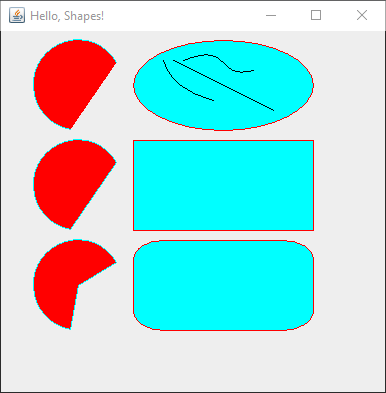
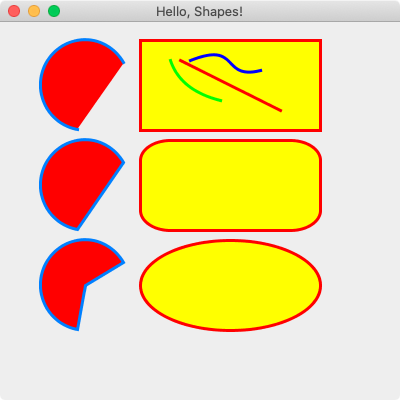
Version 0.0.4 changes: - Support setting `stroke` attribute in shapes - Rename `draw_color` and `fill_color` to `draw_paint` and `fill_paint` to be consistent with `java.awt.Graphics2D` terminology (while keeping older syntax as an alias/alternative) - Enable antialiasing by default on Java 2D graph

diff --git a/samples/hello/hello_shapes.rb b/samples/hello/hello_shapes.rb
@@ -6,44 +6,53 @@ jframe('Hello, Shapes!') {
   minimum_size 400, 400
   
   arc(40, 40, 90, 90, 30, 230, 0) {
-    fill_color r: 255, g: 0, b: 0
-    draw_color r: 0, g: 255, b: 255
+    fill_paint 255, 0, 0
+    draw_paint 0, 128, 255
+    stroke 3
   }
   
   arc(40, 140, 90, 90, 30, 230, 1) {
-    fill_color r: 255, g: 0, b: 0
-    draw_color r: 0, g: 255, b: 255
+    fill_paint 255, 0, 0
+    draw_paint 0, 128, 255
+    stroke 3
   }
   
   arc(40, 240, 90, 90, 30, 230, 2) {
-    fill_color r: 255, g: 0, b: 0
-    draw_color r: 0, g: 255, b: 255
+    fill_paint 255, 0, 0
+    draw_paint 0, 128, 255
+    stroke 3
   }
   
-  ellipse(140, 40, 180, 90) {
-    fill_color r: 0, g: 255, b: 255
-    draw_color r: 255, g: 0, b: 0
+  rectangle(140, 40, 180, 90) {
+    fill_paint 255, 255, 0
+    draw_paint 255, 0, 0
+    stroke 3
   }
   
-  rectangle(140, 140, 180, 90) {
-    fill_color r: 0, g: 255, b: 255
-    draw_color r: 255, g: 0, b: 0
-  }
-  
-  round_rectangle(140, 240, 180, 90, 60, 40) {
-    fill_color r: 0, g: 255, b: 255
-    draw_color r: 255, g: 0, b: 0
+  round_rectangle(140, 140, 180, 90, 60, 40) {
+    fill_paint 255, 255, 0
+    draw_paint 255, 0, 0
+    stroke 3
   }
 
+  ellipse(140, 240, 180, 90) {
+    fill_paint 255, 255, 0
+    draw_paint 255, 0, 0
+    stroke 3
+  }
+  
   line(180, 60, 280, 110) {
-    draw_color r: 0, g: 0, b: 0
+    draw_paint 255, 0, 0
+    stroke 3
   }
   
   quad_curve(170, 60, 180, 90, 220, 100) {
-    draw_color r: 0, g: 0, b: 0
+    draw_paint 0, 255, 0
+    stroke 3
   }
   
   cubic_curve(190, 60, 240, 40, 220, 80, 260, 70) {
-    draw_color r: 0, g: 0, b: 0
+    draw_paint 0, 0, 255
+    stroke 3
   }
 }.show

diff --git a/lib/glimmer/swing/component_proxy.rb b/lib/glimmer/swing/component_proxy.rb
@@ -87,18 +87,23 @@ module Glimmer
                 attr_accessor :shape_proxies
       
                 def paint(g2)
+                  rendering_hints = RenderingHints.new(RenderingHints::KEY_ANTIALIASING, RenderingHints::VALUE_ANTIALIAS_ON)
+                  g2.set_rendering_hints(rendering_hints)
                   super(g2)
                   shape_proxies.each do |shape_proxy|
-                    original_color = g2.get_color
+                    original_paint = g2.get_paint
+                    original_stroke = g2.get_stroke
                     if shape_proxy.fill_color
-                      g2.color = Color.new(shape_proxy.fill_color[:r], shape_proxy.fill_color[:g], shape_proxy.fill_color[:b], shape_proxy.fill_color[:a] || 255)
+                      g2.set_paint shape_proxy.fill_paint
                       g2.fill(shape_proxy)
                     end
                     if shape_proxy.draw_color
-                      g2.color = Color.new(shape_proxy.draw_color[:r], shape_proxy.draw_color[:g], shape_proxy.draw_color[:b], shape_proxy.draw_color[:a] || 255)
+                      g2.set_stroke shape_proxy.stroke unless shape_proxy.stroke.nil?
+                      g2.set_paint shape_proxy.draw_paint
                       g2.draw(shape_proxy)
                     end
-                    g2.color = original_color
+                    g2.set_paint original_paint
+                    g2.set_stroke original_stroke || BasicStroke.new
                   end
                 end
               }

diff --git a/lib/glimmer/swing/shape_proxy.rb b/lib/glimmer/swing/shape_proxy.rb
@@ -99,7 +99,6 @@ module Glimmer
       end
       
       attr_reader :parent_proxy, :original, :args, :keyword, :block
-      attr_accessor :draw_color, :fill_color
       
       def initialize(parent, keyword, *args, &block)
         @parent_proxy = parent
@@ -148,6 +147,34 @@ module Glimmer
       def content(&block)
         Glimmer::DSL::Engine.add_content(self, Glimmer::DSL::Swing::ShapeExpression.new, @keyword, &block)
       end
+      
+      def stroke=(*args)
+        @stroke = BasicStroke.new(*args)
+      end
+      
+      def stroke
+        @stroke
+      end
+      
+      def draw_paint=(*args)
+        @draw_paint = Color.new(*args)
+      end
+      alias draw_color= draw_paint=
+      
+      def draw_paint
+        @draw_paint
+      end
+      alias draw_color draw_paint
+      
+      def fill_paint=(*args)
+        @fill_paint = Color.new(*args)
+      end
+      alias fill_color= fill_paint=
+      
+      def fill_paint
+        @fill_paint
+      end
+      alias fill_color fill_paint
       
       private
       

diff --git a/lib/glimmer/dsl/swing/property_expression.rb b/lib/glimmer/dsl/swing/property_expression.rb
@@ -32,7 +32,7 @@ module Glimmer
             parent.is_a?(Glimmer::Swing::ShapeProxy)
           ) and
             block.nil? and
-            parent.respond_to?(keyword, *args)
+            parent.respond_to?("#{keyword}=", *args)
         end
   
         def interpret(parent, keyword, *args, &block)

diff --git a/README.md b/README.md
@@ -1,4 +1,4 @@
-# [<img src="https://raw.githubusercontent.com/AndyObtiva/glimmer/master/images/glimmer-logo-hi-res.png" height=85 />](https://github.com/AndyObtiva/glimmer) Glimmer DSL for Swing 0.0.3
+# [<img src="https://raw.githubusercontent.com/AndyObtiva/glimmer/master/images/glimmer-logo-hi-res.png" height=85 />](https://github.com/AndyObtiva/glimmer) Glimmer DSL for Swing 0.0.4
 ## JRuby Swing Desktop Development GUI Library
 [![Gem Version](https://badge.fury.io/rb/glimmer-dsl-swing.svg)](http://badge.fury.io/rb/glimmer-dsl-swing)
 [![Join the chat at https://gitter.im/AndyObtiva/glimmer](https://badges.gitter.im/AndyObtiva/glimmer.svg)](https://gitter.im/AndyObtiva/glimmer?utm_source=badge&utm_medium=badge&utm_campaign=pr-badge&utm_content=badge)
@@ -57,14 +57,14 @@ Note: On the Mac, if you have [Glimmer DSL for SWT](https://github.com/AndyObtiv
 
 Run this command to install directly:
 ```
-gem install glimmer-dsl-swing -v0.0.3
+gem install glimmer-dsl-swing -v0.0.4
 ```
 
 ### Option 2: Bundler
 
 Add the following to `Gemfile`:
 ```
-gem 'glimmer-dsl-swing', '0.0.3'
+gem 'glimmer-dsl-swing', '0.0.4'
 ```
 
 And, then run:
@@ -249,7 +249,10 @@ For example, `Arc2D` becomes simply `arc`.
 
 Glimmer utilizes the `Double` variation of shape classes.
 
-Additionally, you can set `draw_color` or `fill_color` property as an rgb/rgba hash (e.g. `r: 255, g: 0, b: 0`)
+Additionally, you can set these shape properties:
+- `draw_paint` (alias: `draw_color`): takes [`java.awt.Color`](https://docs.oracle.com/javase/8/docs/api/java/awt/Color.html) rgba arguments to use color for drawing
+- `fill_paint` (alias: `fill_color`): takes [`java.awt.Color`](https://docs.oracle.com/javase/8/docs/api/java/awt/Color.html) rgba arguments to use color for filling
+- `stroke`: takes [`java.awt.BasicStroke`](https://docs.oracle.com/javase/8/docs/api/java/awt/BasicStroke.html) line width and other arguments to use for drawing
 
 Example:
 
@@ -262,45 +265,54 @@ jframe('Hello, Shapes!') {
   minimum_size 400, 400
   
   arc(40, 40, 90, 90, 30, 230, 0) {
-    fill_color r: 255, g: 0, b: 0
-    draw_color r: 0, g: 255, b: 255
+    fill_paint 255, 0, 0
+    draw_paint 0, 128, 255
+    stroke 3
   }
   
   arc(40, 140, 90, 90, 30, 230, 1) {
-    fill_color r: 255, g: 0, b: 0
-    draw_color r: 0, g: 255, b: 255
+    fill_paint 255, 0, 0
+    draw_paint 0, 128, 255
+    stroke 3
   }
   
   arc(40, 240, 90, 90, 30, 230, 2) {
-    fill_color r: 255, g: 0, b: 0
-    draw_color r: 0, g: 255, b: 255
+    fill_paint 255, 0, 0
+    draw_paint 0, 128, 255
+    stroke 3
   }
   
-  ellipse(140, 40, 180, 90) {
-    fill_color r: 0, g: 255, b: 255
-    draw_color r: 255, g: 0, b: 0
+  rectangle(140, 40, 180, 90) {
+    fill_paint 255, 255, 0
+    draw_paint 255, 0, 0
+    stroke 3
   }
   
-  rectangle(140, 140, 180, 90) {
-    fill_color r: 0, g: 255, b: 255
-    draw_color r: 255, g: 0, b: 0
-  }
-  
-  round_rectangle(140, 240, 180, 90, 60, 40) {
-    fill_color r: 0, g: 255, b: 255
-    draw_color r: 255, g: 0, b: 0
+  round_rectangle(140, 140, 180, 90, 60, 40) {
+    fill_paint 255, 255, 0
+    draw_paint 255, 0, 0
+    stroke 3
   }
 
+  ellipse(140, 240, 180, 90) {
+    fill_paint 255, 255, 0
+    draw_paint 255, 0, 0
+    stroke 3
+  }
+  
   line(180, 60, 280, 110) {
-    draw_color r: 0, g: 0, b: 0
+    draw_paint 255, 0, 0
+    stroke 3
   }
   
   quad_curve(170, 60, 180, 90, 220, 100) {
-    draw_color r: 0, g: 0, b: 0
+    draw_paint 0, 255, 0
+    stroke 3
   }
   
   cubic_curve(190, 60, 240, 40, 220, 80, 260, 70) {
-    draw_color r: 0, g: 0, b: 0
+    draw_paint 0, 0, 255
+    stroke 3
   }
 }.show
 ```
@@ -453,45 +465,54 @@ jframe('Hello, Shapes!') {
   minimum_size 400, 400
   
   arc(40, 40, 90, 90, 30, 230, 0) {
-    fill_color r: 255, g: 0, b: 0
-    draw_color r: 0, g: 255, b: 255
+    fill_paint 255, 0, 0
+    draw_paint 0, 128, 255
+    stroke 3
   }
   
   arc(40, 140, 90, 90, 30, 230, 1) {
-    fill_color r: 255, g: 0, b: 0
-    draw_color r: 0, g: 255, b: 255
+    fill_paint 255, 0, 0
+    draw_paint 0, 128, 255
+    stroke 3
   }
   
   arc(40, 240, 90, 90, 30, 230, 2) {
-    fill_color r: 255, g: 0, b: 0
-    draw_color r: 0, g: 255, b: 255
+    fill_paint 255, 0, 0
+    draw_paint 0, 128, 255
+    stroke 3
   }
   
-  ellipse(140, 40, 180, 90) {
-    fill_color r: 0, g: 255, b: 255
-    draw_color r: 255, g: 0, b: 0
+  rectangle(140, 40, 180, 90) {
+    fill_paint 255, 255, 0
+    draw_paint 255, 0, 0
+    stroke 3
   }
   
-  rectangle(140, 140, 180, 90) {
-    fill_color r: 0, g: 255, b: 255
-    draw_color r: 255, g: 0, b: 0
-  }
-  
-  round_rectangle(140, 240, 180, 90, 60, 40) {
-    fill_color r: 0, g: 255, b: 255
-    draw_color r: 255, g: 0, b: 0
+  round_rectangle(140, 140, 180, 90, 60, 40) {
+    fill_paint 255, 255, 0
+    draw_paint 255, 0, 0
+    stroke 3
   }
 
+  ellipse(140, 240, 180, 90) {
+    fill_paint 255, 255, 0
+    draw_paint 255, 0, 0
+    stroke 3
+  }
+  
   line(180, 60, 280, 110) {
-    draw_color r: 0, g: 0, b: 0
+    draw_paint 255, 0, 0
+    stroke 3
   }
   
   quad_curve(170, 60, 180, 90, 220, 100) {
-    draw_color r: 0, g: 0, b: 0
+    draw_paint 0, 255, 0
+    stroke 3
   }
   
   cubic_curve(190, 60, 240, 40, 220, 80, 260, 70) {
-    draw_color r: 0, g: 0, b: 0
+    draw_paint 0, 0, 255
+    stroke 3
   }
 }.show
 ```

diff --git a/CHANGELOG.md b/CHANGELOG.md
@@ -1,5 +1,12 @@
 # Change Log
 
+## 0.0.4
+
+- Support setting `stroke` attribute in shapes
+- Rename `draw_color` and `fill_color` to `draw_paint` and `fill_paint` to be consistent with `java.awt.Graphics2D` terminology (while keeping older syntax as an alias/alternative)
+- Enable antialiasing by default on Java 2D graphics
+- Update Hello, Shapes! to take advantage of `stroke`
+
 ## 0.0.3
 
 - Support `observe` keyword for observing model attributes to update the View

diff --git a/TODO.md b/TODO.md
@@ -1,3 +1,6 @@
 # TODO
 
-- Support Java 2D geometry
+## Maybe
+
+- Support draw_paint and fill_paint as aliases for draw_color and fill_color
+- Handle any crashes gracefully, keeping app alive regardless just like Glimmer DSL for SWT does it
